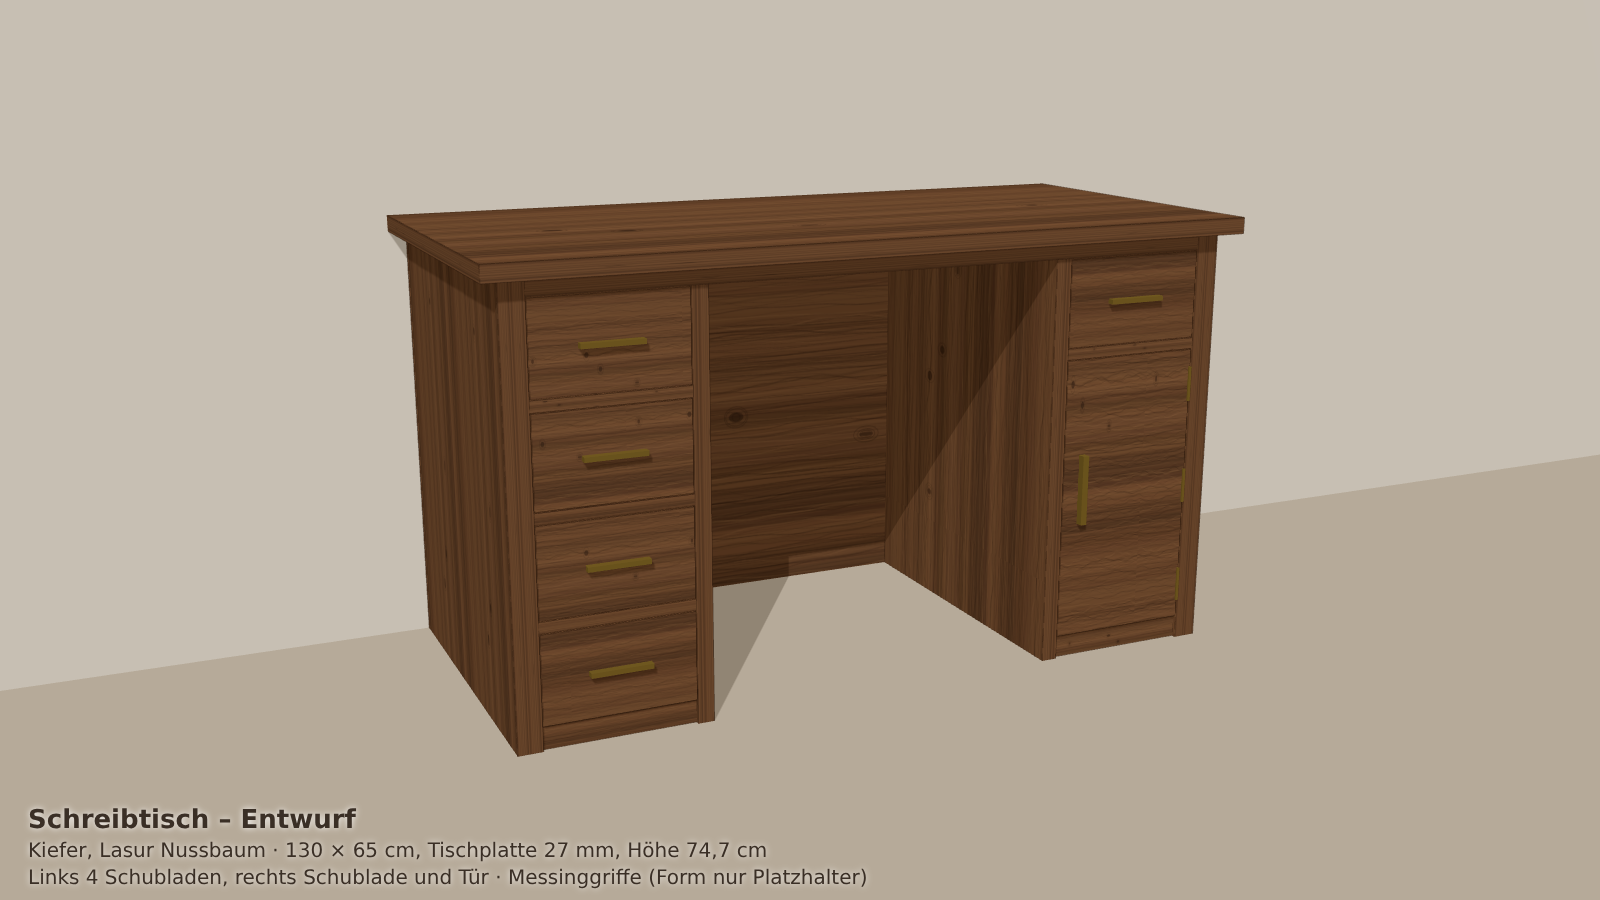
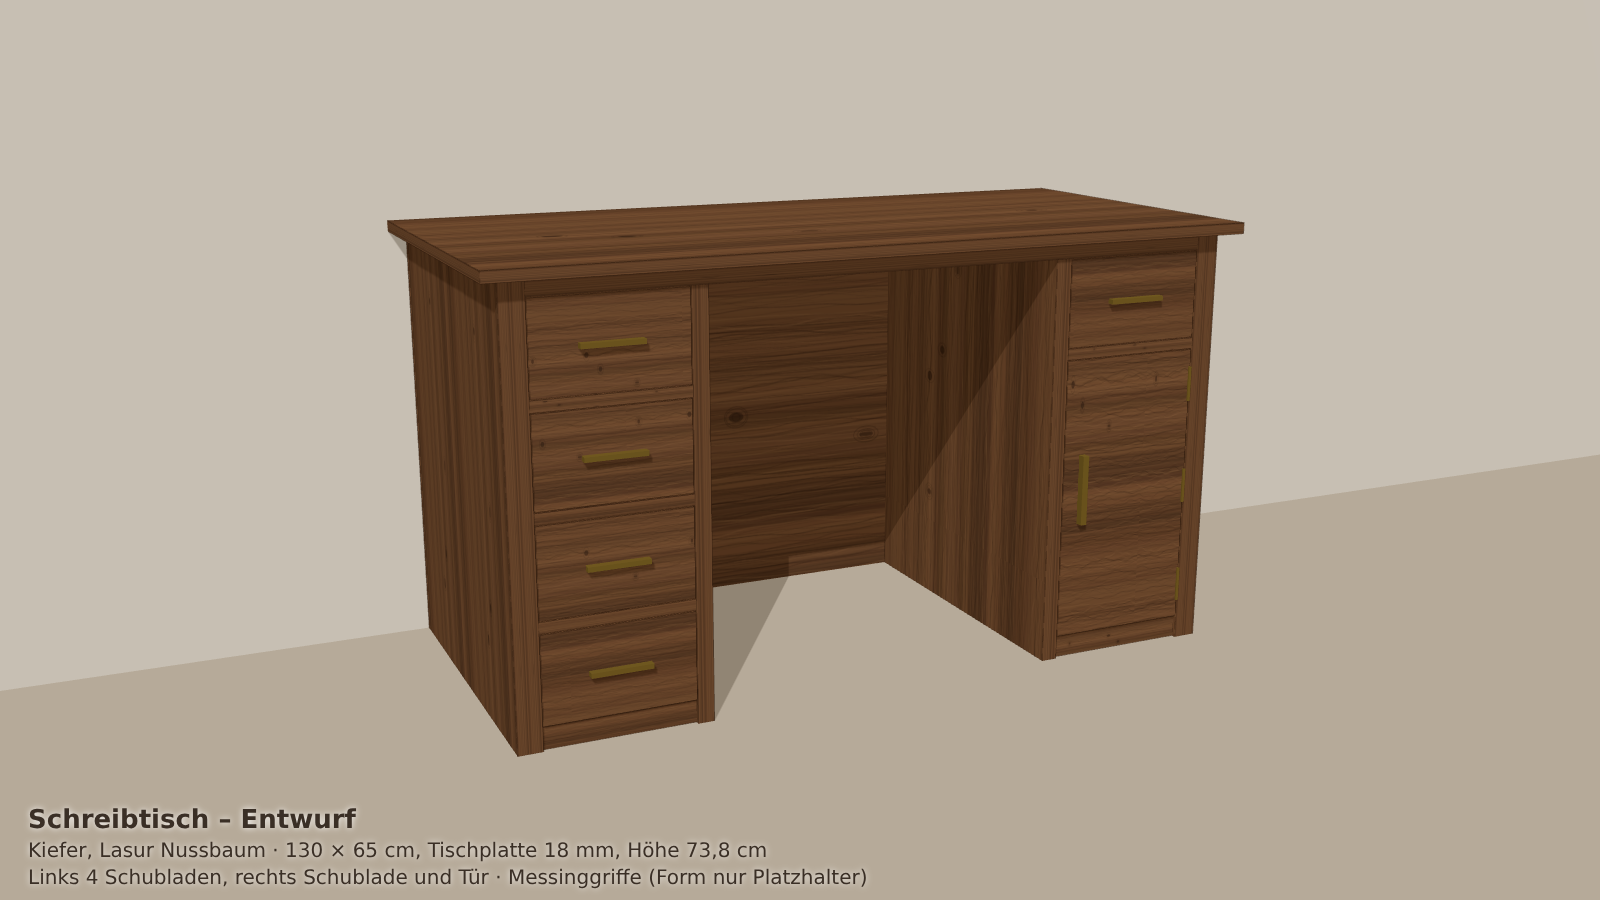
Schreibtisch: Tischplatte wieder 18 mm, Renderings und Plan aktualisiert
Claude-Session: https://claude.ai/code/session_01XaGsoAajkMh8CfcQtnFFv4

diff --git a/schreibtisch/plan.md b/schreibtisch/plan.md
@@ -4,7 +4,7 @@ Bilder im selben Ordner: `skizze.png` (Ansichten), `duebelplan.png` (Dübel), `r
 
 ## 1. Aufbau
 
-- Gestell: zwei Seitenplatten (40 mm), dazwischen oben die Verbindungsplatte (27 mm), darauf die Tischplatte (27 mm, 1300 × 650).
+- Gestell: zwei Seitenplatten (40 mm), dazwischen oben die Verbindungsplatte (27 mm), darauf die Tischplatte (18 mm, 1300 × 650).
 - Links ein Schubladenblock mit **4 Schubladen**, getrennt durch **3 Fachböden (18 mm)**. Unten kein Brett, nur eine **Zierleiste** vor dem Fuß.
 - Rechts oben **1 Schublade**, darunter ein **Fachboden** und eine **große Tür** (Scharniere rechts, Griff links, Magnetschnäpper). Unten ein **Bodenbrett** hinter der Zierleiste, symmetrisch zu links: Zierleiste auf beiden Seiten gleich, die Tür beginnt wie die linken Fronten bei 41 mm.
 - Zwischen den Blöcken zwei senkrechte Trennplatten (27 mm), dazwischen der Kniefreiraum.
@@ -13,8 +13,8 @@ Bilder im selben Ordner: `skizze.png` (Ansichten), `duebelplan.png` (Dübel), `r
 | | Wert |
 |---|---|
 | Gestell außen (B × T × H) | 1240 × 590 × 720 |
-| Tischplatte | 1300 × 650 × 27 |
-| Gesamthöhe | 747 |
+| Tischplatte | 1300 × 650 × 18 |
+| Gesamthöhe | 738 |
 | Überstand Tischplatte | 30 vorn, 30 je Seite, hinten 22 über der Rückwand |
 | Öffnung je Block (Breite) | 250 |
 | Kniefreiraum | ca. 606 |
@@ -46,7 +46,7 @@ Rechts: Fach 4 = Schublade (wie links), 525–543 Fachboden, 39–525 Türfach (
 | Bodenbrett rechts | 1 | 566 × ca. 249 (hinter der Zierleiste) | 18 | Leimholz Kiefer |
 | Tür | 1 | 482 × 247 | 18 | Leimholz Kiefer |
 | Zierleiste | 2 | 250 × 37 | 18 | Leimholz Kiefer (Reste) |
-| Tischplatte | 1 | 1300 × 650 | 27 | Leimholz Kiefer |
+| Tischplatte | 1 | 1300 × 650 | 18 | Leimholz Kiefer |
 | Rückwand | 1 | 1240 × 720 | 8 | Sperrholz |
 
 Linke Trennplatte: 290 mm von der linken Außenkante bis zu ihrer linken Fläche (Öffnung genau 250 mm), die Platte reicht bis 317 mm. Rechte Trennplatte spiegelbildlich.
@@ -96,15 +96,13 @@ Annahme: 27- und 40-mm-Bretter gibt es in denselben Formaten wie 18 mm (Längen 
 | Dicke | Kaufen | Zuschnitt | Ergibt |
 |---|---|---|---|
 | 40 mm | 2 × 800×400, 2 × 800×200 | alle auf 720 kürzen; 200er-Teile auf 190 Breite besäumen | 2 Seitenplatten |
-| 27 mm Tischplatte | 1 × 2000×400, 1 × 2000×250 | je auf 1300 kürzen | Tischplatte 1300 × 650 (400 + 250) |
-| 27 mm Trennplatte 1 | (Reste der Tischplatte: 700×400 und 700×250) | auf 693 kürzen (nur 3–4 mm Spiel!); 250er-Rest auf 190 besäumen | linke Trennplatte |
-| 27 mm | 1 × 1200×400, 1 × 1200×200 | auf 1160 kürzen; 200er auf 190 besäumen | Verbindungsplatte |
+| 27 mm | 1 × 2000×400, 1 × 2000×200 | je bei 1160 und 693 quer schneiden; 200er-Teile auf 190 besäumen | Verbindungsplatte, linke Trennplatte |
 | 27 mm | 1 × 800×400, 1 × 800×200 | auf 693 kürzen; 200er auf 190 besäumen | rechte Trennplatte |
+| 18 mm Tischplatte | 1 × 2000×400, 1 × 2000×250 | je auf 1300 kürzen | Tischplatte 1300 × 650 (400 + 250) |
 | 18 mm Bretter | 5 × 800×250 | 4 × auf 590, 1 × auf 566 kürzen | 4 Fachböden, Bodenbrett |
 | 18 mm Tür und Zierleisten | 1 × 800×250 | auf 482 kürzen, auf 247 besäumen; Rest 318 × 250: 2 Streifen 37 breit, je 250 lang | Tür, 2 Zierleisten |
 | 18 mm Schubladen | 2 × 2000×300, 1 × 2000×200 | 300er A: Streifen 130 + 146 (146: 5 Fronten à 247); 130er-Streifen je 3 Seiten + 2 Rückstücke; 300er B: 2 Streifen 130; 200er: 1 Streifen 130 | 10 Seiten, 5 Rückstücke, 5 Fronten |
 
-Sicherere Variante für Trennplatte 1: eigene Bretter 800×400 + 800×200 in 27 mm (ca. 40 € mehr).
 Reste aufheben (Dübeltests). Anzahl der Schnitte beim Bauhaus vorher klären (ca. 60 Schnitte).
 
 ## 8. Kostenstand (Entwurf)
@@ -118,20 +116,20 @@ Preise von dir: Dübelset 30 €, Messinggriffe 7 € das Stück, 4 Paar Kugelau
 | Messinggriffe (5 Schubladen + 1 Tür = 6 × 7 €) | 42 € | Beleg |
 | 1 weiteres Paar Auszüge | ca. 8 € | Schätzung (gleicher Preis) |
 | 3 Scharniere + Magnetschnäpper | 10–25 € | Schätzung |
-| 27-mm-Holz inkl. Tischplatte (2,5 m² × 84 €/m²) | ca. 210 € | Beleg |
-| 18-mm-Bretter (2,8 m²) | ca. 70 € | nur 2000×200 belegt, Rest nach Fläche (25 €/m²) |
+| 27-mm-Holz: Verbindungsplatte + 2 Trennplatten (1,68 m² × 84 €/m²) | ca. 141 € | Beleg |
+| 18-mm-Bretter inkl. Tischplatte (4,1 m²) | ca. 103 € | nur 2000×200 belegt, Rest nach Fläche (25 €/m²) |
 | Lasur Nussbaum (2,0–2,8 l) | 57–80 € | Beleg + Annahme Deckvermögen |
 | Sperrholz 8 mm (Rückwand) und 6 mm (Böden) | 28–55 € | Schätzung |
 | Klarlack | 10–25 € | Schätzung |
 | Zubehör (Spanngurte, Leim, 6×30-Dübel, Schleifpapier, Z-Verbinder, Pinsel) | 45–73 € | Schätzung |
-| **Zwischensumme ohne 40-mm-Holz** | **ca. 540–650 €** | |
+| **Zwischensumme ohne 40-mm-Holz** | **ca. 505–615 €** | |
 | 40-mm-Holz (0,96 m², Preis fehlt; bei 120 €/m² ca. 115 €) | offen | Annahme |
 
 Option innere Trennplatten 40 statt 27 mm: ca. 75 € mehr (bei 120 €/m² für 40 mm, Annahme), Kniefreiraum 580 statt 606 mm. Vergleichsbild: `vergleich_trennplatten_27_40.png`.
 
 ## 9. Offene Punkte
 
-- Innere Trennplatten 27 oder 40 mm?
+- Innere Platten (Verbindungsplatte, senkrechte Trennplatten): 27 mm – entschieden.
 - Preis 40-mm-Holz, Sperrholz, Klarlack.
 - Griff- und Scharniermodell (Aufschlag- oder Topfscharniere?).
 - Plattenformate und Anzahl kostenloser Schnitte beim Bauhaus.
